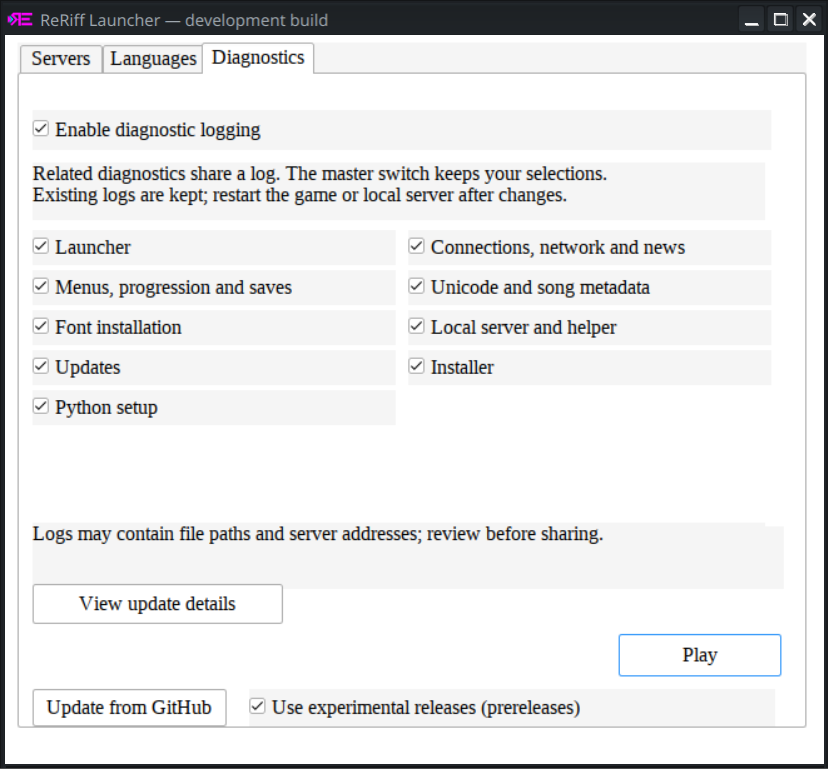
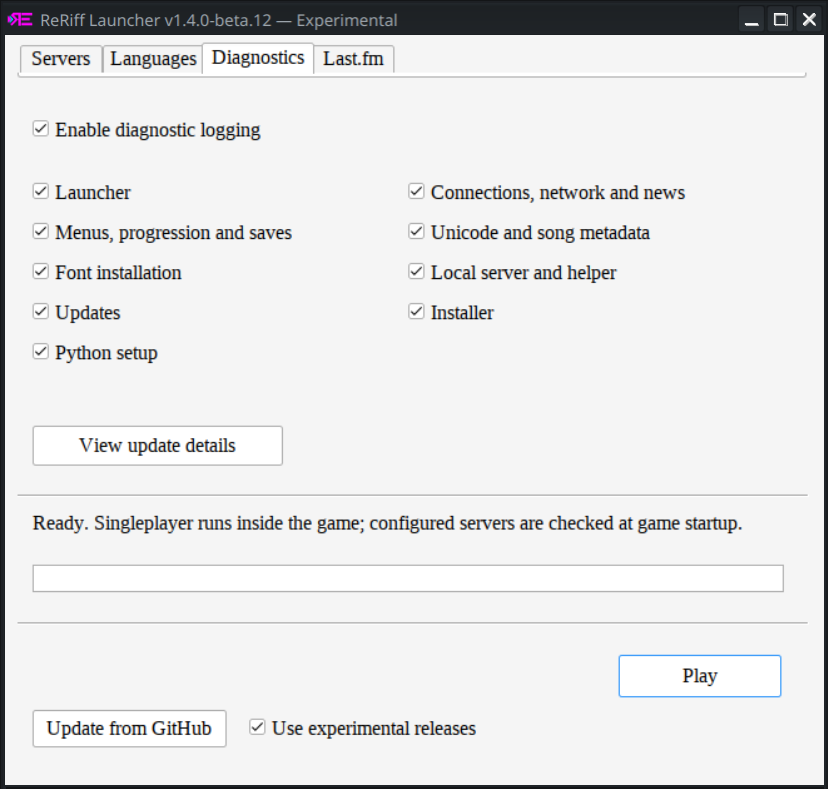
Refresh launcher screenshots for beta.12

diff --git a/README.md b/README.md
@@ -16,7 +16,7 @@ leaderboards and ghosts.
 
 ![ReRiff launcher with server settings](docs/images/reriff-launcher.png)
 
-Development launcher shown. Hover over checkboxes for explanations.
+Beta.12 launcher shown. Hover over checkboxes for explanations.
 
 ## Install
 
